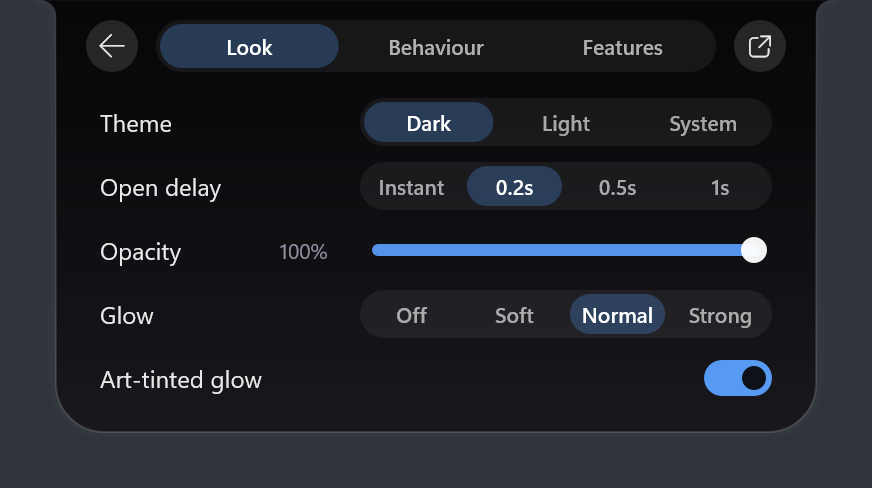
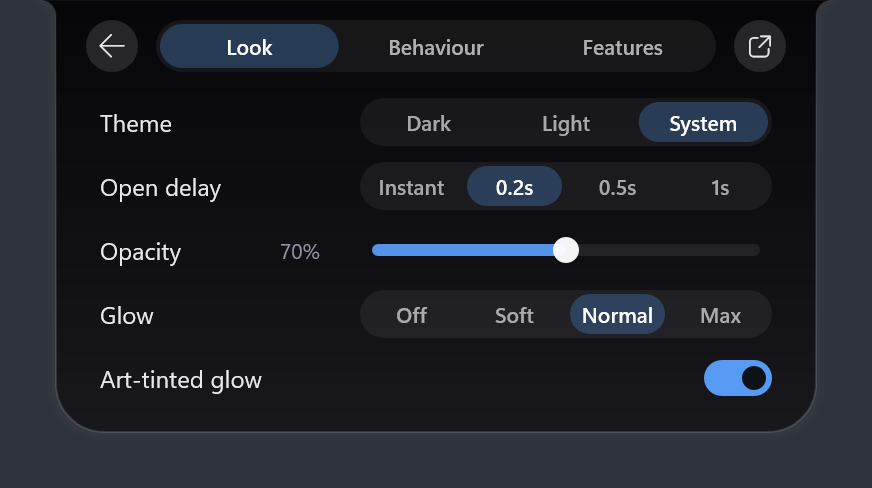
New defaults: autostart on, theme follows Windows, pill 70% open and 75% idle, closes after 0.1 s, pin button on, 3 s finish peek, agent sound on, 70% CPU alert, 2 timer rounds; docs and screenshots

diff --git a/crates/hytte/src/config.rs b/crates/hytte/src/config.rs
@@ -122,30 +122,30 @@ pub fn parse_hotkey(s: &str) -> Option<(u32, u32)> {
 impl Default for General {
     fn default() -> Self {
         Self {
-            autostart: false,
+            autostart: true,
             add_to_path: true,
             monitor: "primary".into(),
             adaptive_glow: true,
             glow_strength: 1.2,
-            pill_opacity: 1.0,
+            pill_opacity: 0.7,
             hover_delay_ms: 200,
-            collapse_delay_ms: 300,
+            collapse_delay_ms: 100,
             open_on: "hover".into(),
             pill_scale: 1.0,
-            idle_opacity: 1.0,
+            idle_opacity: 0.75,
             animation: "normal".into(),
             start_panel: "last".into(),
-            pin_button: false,
+            pin_button: true,
             remember_panel: false,
             quiet_hours: String::new(),
             task_rows: 4,
             hotkey: String::new(),
-            theme: "dark".into(),
+            theme: "auto".into(),
             fullscreen: "line".into(),
             output_folder: None,
             allow_list: vec![],
             deny_list: vec![],
-            finish_peek_secs: 5,
+            finish_peek_secs: 3,
             hide_from_capture: true,
             check_updates: true,
         }
@@ -282,7 +282,7 @@ impl Default for Hog {
     fn default() -> Self {
         Self {
             enabled: true,
-            cpu_pct: 80,
+            cpu_pct: 70,
             mem_mb: 4096,
             secs: 30,
         }
@@ -299,7 +299,7 @@ impl Default for Agent {
     fn default() -> Self {
         Self {
             peek_secs: 6,
-            sound: false,
+            sound: true,
         }
     }
 }
@@ -319,7 +319,7 @@ impl Default for Timer {
             sound: true,
             break_min: 5,
             long_break_min: 15,
-            rounds: 4,
+            rounds: 2,
         }
     }
 }

diff --git a/docs/11-configuration-and-files.md b/docs/11-configuration-and-files.md
@@ -63,19 +63,19 @@ Hytte only writes `config.toml` in four cases: creating it on first run (`config
 
 | Key | Default | Meaning |
 |---|---|---|
-| `autostart` | `false` | Start Hytte at login (the `Run` registry value). Applied at every startup and when toggled from the tray. |
+| `autostart` | `true` | Start Hytte at login (the `Run` registry value). Applied at every startup and when toggled from the tray. |
 | `add_to_path` | `true` | At startup, add the folder holding `hytte.exe` to the user's `PATH` if `hytte` isn't found already. Set to `false` to manage `PATH` yourself. |
 | `monitor` | `"primary"` | Where the pill hangs: `"primary"`, `"active"` (the foreground window's monitor) or `"cursor"` (the monitor under the pointer). `active` and `cursor` are re-checked when the foreground window changes ([section 7](07-window-and-input.md#monitor-and-dpi)). |
-| `theme` | `"dark"` | `"dark"`, `"light"`, or `"auto"` (follow the Windows app mode). Applies live. |
-| `glow_strength` | `1.2` | Multiplier for the border glow around the pill: `1.0` is the original look, `0` turns it off, values above `3` are capped. |
-| `pill_opacity` | `1.0` | Opacity of the pill's body, `0.4` to `1.0`. Text and icons stay solid. Applies live. |
-| `pin_button` | `false` | Show a pin in the open pill's tab strip. Clicking it keeps the pill open until it is clicked again (or a fullscreen app takes the screen). The pinned state is not saved. |
+| `theme` | `"auto"` | `"dark"`, `"light"`, or `"auto"` (follow the Windows app mode). Applies live. |
+| `glow_strength` | `1.2` | Multiplier for the border glow around the pill: `1.0` is the original look, `0` turns it off, values above `3` are capped. The settings window's slider runs 0 to 1.92 (shown as 0 to 100 %), 20 % past the old "Strong" (1.6). |
+| `pill_opacity` | `0.7` | Opacity of the pill's body, `0.4` to `1.0`. Text and icons stay solid. Applies live. |
+| `pin_button` | `true` | Show a pin in the open pill's tab strip. Clicking it keeps the pill open until it is clicked again (or a fullscreen app takes the screen). The pinned state is not saved. |
 | `remember_panel` | `false` | With `start_panel = "last"`, remember the panel across restarts (`panel.txt`). |
 | `hover_delay_ms` | `200` | How long the pointer must rest on the pill (or the sentinel line) before it opens; `0` opens at once. |
-| `collapse_delay_ms` | `300` | How long the pill stays open after the pointer leaves it. |
+| `collapse_delay_ms` | `100` | How long the pill stays open after the pointer leaves it. |
 | `open_on` | `"hover"` | `"hover"` opens when the pointer rests on the pill; `"click"` waits for a click on the closed pill. |
 | `pill_scale` | `1.0` | Size of the pill, `0.7` to `1.6`. |
-| `idle_opacity` | `1.0` | The idle pill (nothing to show) fades to this, `0.2` to `1.0`, until it is pointed at. |
+| `idle_opacity` | `0.75` | The idle pill (nothing to show) fades to this, `0.2` to `1.0`, until it is pointed at. |
 | `animation` | `"normal"` | `"calm"`, `"normal"` or `"snappy"`: how fast the pill moves. |
 | `start_panel` | `"last"` | The panel it opens on: `"last"` (the one you left), `"auto"` (what is happening, else the quick controls) or `"home"`. |
 | `quiet_hours` | `""` | No sounds (agent alerts, the timer alarm) inside this window, for example `"22:00-07:00"`; it may wrap past midnight. Empty = never. The settings window offers four presets and **Custom**, which writes the key into the file with a note above it and opens it. |
@@ -83,7 +83,7 @@ Hytte only writes `config.toml` in four cases: creating it on first run (`config
 | `adaptive_glow` | `true` | Tint the media glow with the dominant colour of the album art (greyscale art keeps the white glow). |
 | `hotkey` | `""` | A global chord such as `"Win+Alt+N"` that opens the pill for keyboard use ([section 7](07-window-and-input.md#keyboard)). Empty = off. Needs a modifier and one key. |
 | `fullscreen` | `"line"` | Over a maximised window (whether or not the taskbar auto-hides), or a fullscreen browser / media player: `"line"` shrinks to a 3 px bar, `"hide"` fades out completely, `"off"` stays as usual. Real fullscreen apps (games) always hide fully ([section 7](07-window-and-input.md#fullscreen-suppression)), except with `"off"`. Settings from before 1.2.2 (`suppress_fullscreen = false`, `fullscreen_mode = "hide"`) are read as `"off"` / `"hide"`. |
-| `finish_peek_secs` | `5` | Seconds the pill opens to show a task that finished or failed. `0` keeps it closed. |
+| `finish_peek_secs` | `3` | Seconds the pill opens to show a task that finished or failed. `0` keeps it closed. |
 | `check_updates` | `true` | Once a day (first 60 s after start), ask GitHub whether a newer release exists and offer to install it ([section 15](15-updates.md)). The tray's **Check for updates…** works either way. Live: while off, the daily check is skipped. |
 | `hide_from_capture` | `true` | Keep the pill out of screenshots, screen recordings and screen share (`SetWindowDisplayAffinity` with `WDA_EXCLUDEFROMCAPTURE`). You still see it on your own screen. Applies live. |
 | `output_folder` | none | Folder for Drop Vault results; if unset or missing, results go next to the source file. |
@@ -122,14 +122,14 @@ Hytte only writes `config.toml` in four cases: creating it on first run (`config
 | Key | Default | Meaning |
 |---|---|---|
 | `peek_secs` | `6` | How long the pill peeks open when a task needs input. |
-| `sound` | `false` | Play the system "asterisk" sound on `NeedsInput`. |
+| `sound` | `true` | Play the system "asterisk" sound on `NeedsInput`. |
 
 ### `[hog]`
 
 | Key | Default | Meaning |
 |---|---|---|
 | `enabled` | `true` | Warn when one process keeps using a lot of CPU or memory ([section 9](09-workers.md#resource-hogs-hogrs-hog)). |
-| `cpu_pct` | `80` | Percent of the **whole machine** (all cores = 100) that has to be exceeded. |
+| `cpu_pct` | `70` | Percent of the **whole machine** (all cores = 100) that has to be exceeded. |
 | `secs` | `30` | How long the CPU has to stay over the limit. |
 | `mem_mb` | `4096` | Working set in MB; memory alerts at once. |
 
@@ -154,7 +154,7 @@ Hytte only writes `config.toml` in four cases: creating it on first run (`config
 | `sound` | `true` | Ring when a timer ends, until **Stop alarm** (2 minutes at most). |
 | `break_min` | `5` | Short break length after a Focus session. |
 | `long_break_min` | `15` | Long break length. |
-| `rounds` | `4` | Every `rounds`-th Focus session is followed by a long break. A Focus or Break timer shows this many round dots. |
+| `rounds` | `2` | Every `rounds`-th Focus session is followed by a long break. A Focus or Break timer shows this many round dots. |
 
 ## The timer's persistence
 

diff --git a/README.md b/README.md
@@ -246,26 +246,26 @@ The ones people change most:
 
 ```toml
 [general]
-autostart = false              # start with Windows
-theme = "dark"                 # "dark", "light" or "auto" (follow Windows)
+autostart = true               # start with Windows
+theme = "auto"                 # "dark", "light" or "auto" (follow Windows)
 monitor = "primary"            # "primary", "active" (the focused window's) or "cursor"
 hotkey = ""                    # e.g. "Win+Alt+N": open the pill for keyboard use
 adaptive_glow = true           # tint the music glow with the album art
 glow_strength = 1.2            # border glow strength (1.0 = original, 0 = off, max 3)
-collapse_delay_ms = 300        # how long the pill stays open after the pointer leaves
+collapse_delay_ms = 100        # how long the pill stays open after the pointer leaves
 open_on = "hover"              # "hover" opens at once (after hover_delay_ms), "click" waits for a click
 pill_scale = 1.0               # size of the pill, 0.7 to 1.6
-idle_opacity = 1.0             # the idle pill fades to this (0.2 to 1.0) until you point at it
+idle_opacity = 0.75            # the idle pill fades to this (0.2 to 1.0) until you point at it
 animation = "normal"           # "calm", "normal" or "snappy"
 start_panel = "last"           # the panel it opens on: "last", "auto" (what is happening) or "home"
 remember_panel = false         # with "last": also remember the panel across restarts
-pin_button = false             # show a pin in the open pill: click it to keep the pill open until you click it again
+pin_button = true              # show a pin in the open pill: click it to keep the pill open until you click it again
 quiet_hours = ""               # no sounds in this window, e.g. "22:00-07:00" (empty = never)
 task_rows = 4                  # task rows shown before the list scrolls (2 to 8)
 hover_delay_ms = 200            # how long to rest the pointer on the pill before it opens (0 = instant)
-pill_opacity = 1.0             # pill body opacity, 0.4 to 1.0 (text stays solid)
+pill_opacity = 0.7             # pill body opacity, 0.4 to 1.0 (text stays solid)
 fullscreen = "line"           # over maximised windows and fullscreen video: "line" = thin line, "hide" = disappear, "off" = stay (games always hide)
-finish_peek_secs = 5           # how long the pill opens when a task finishes (0 = never)
+finish_peek_secs = 3           # how long the pill opens when a task finishes (0 = never)
 hide_from_capture = true       # keep the pill out of screenshots and screen share (false = capturable)
 check_updates = true           # look for a new version once a day (needs a restart)
 add_to_path = true             # put the Hytte folder on PATH so `hytte` works in terminals
@@ -291,14 +291,14 @@ watch = [3000, 3001, 4200, 5000, 5173, 5432, 8000, 8080, 8888]
 show_all = false               # true = show every server, not just the ports above
 
 [agent]
-sound = false                  # beep when an agent needs you
+sound = true                   # beep when an agent needs you
 
 [timer]
 sound = true                   # ring when a timer ends, until stopped (2 min at most)
 
 [hog]
 enabled = true                 # warn about a process that keeps using lots of CPU or memory
-cpu_pct = 80                   # of the whole machine, for `secs` seconds
+cpu_pct = 70                   # of the whole machine, for `secs` seconds
 secs = 30
 mem_mb = 4096
 

diff --git a/docs/16-whats-new.md b/docs/16-whats-new.md
@@ -6,6 +6,8 @@ What changed in each version, newest first. The first part is for people who use
 
 **Settings**
 
+- **New defaults** (on a fresh `config.toml`; a file you already have keeps its values): starts with Windows, theme follows Windows, the open pill is 70 % opaque and an idle one 75 %, the pill closes after 0.1 s, the pin button is on, the pill peeks for 3 s when a task finishes, an agent that needs you beeps, resource alerts at 70 % CPU, and the timer has 2 rounds before a long break.
+- **Glow strength is a slider** in the settings window, 0 to 100 %, where 100 % is 20 % stronger than the old "Strong". The pill's small pane has steps Off, Soft, Normal and Max.
 - **Every setting has a clearer name**, and resting the pointer on one explains it. The names in the pill's small pane are shorter versions of the same.
 - **A Custom step on every number** (waits, sizes, opacities, break lengths, thresholds): it opens `config.toml` at that setting with a note, and shows the value when it is none of the steps. The reset (**↺**) now sits in a column at the right of every row and restores the exact default.
 - **Per-app volume only lists apps you can see or hear.** Idle background helpers that hold an audio session (an audio console, a wallpaper engine) are left out, and an app is named as it names itself ("Spotify", "Wallpaper Engine").
